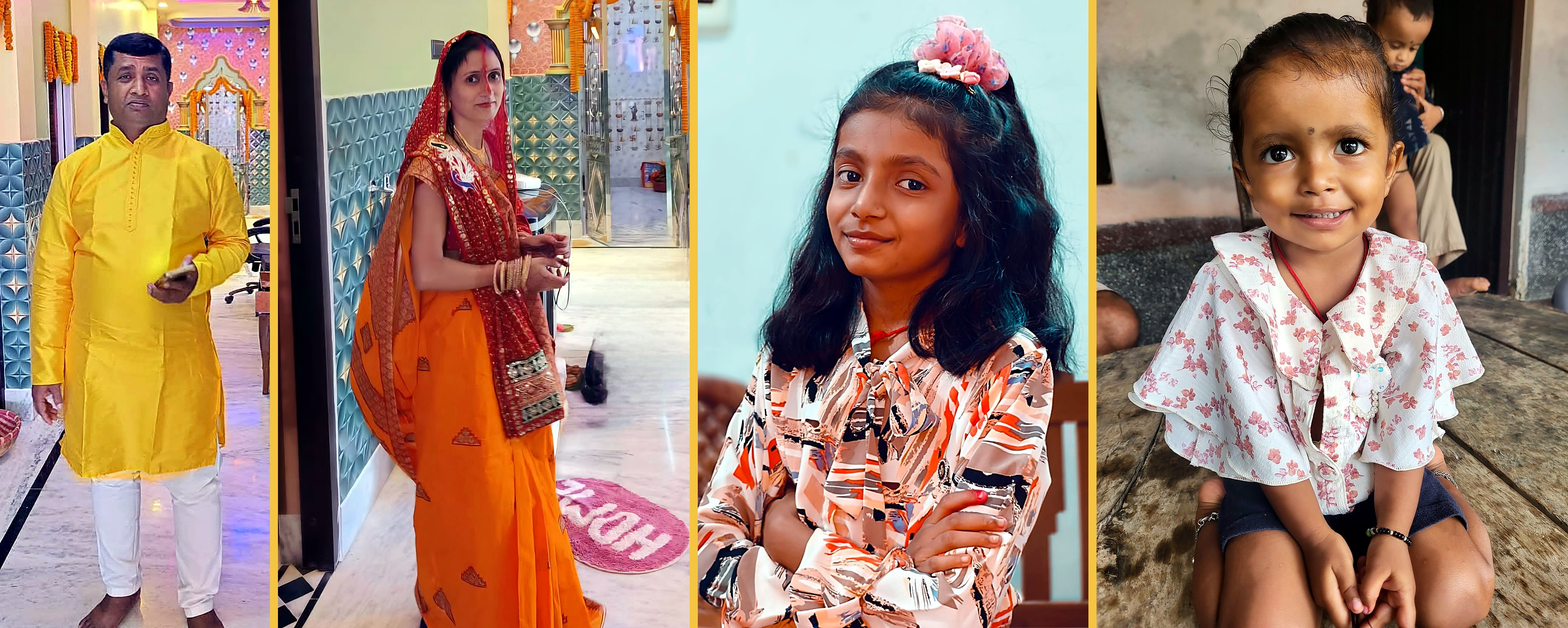
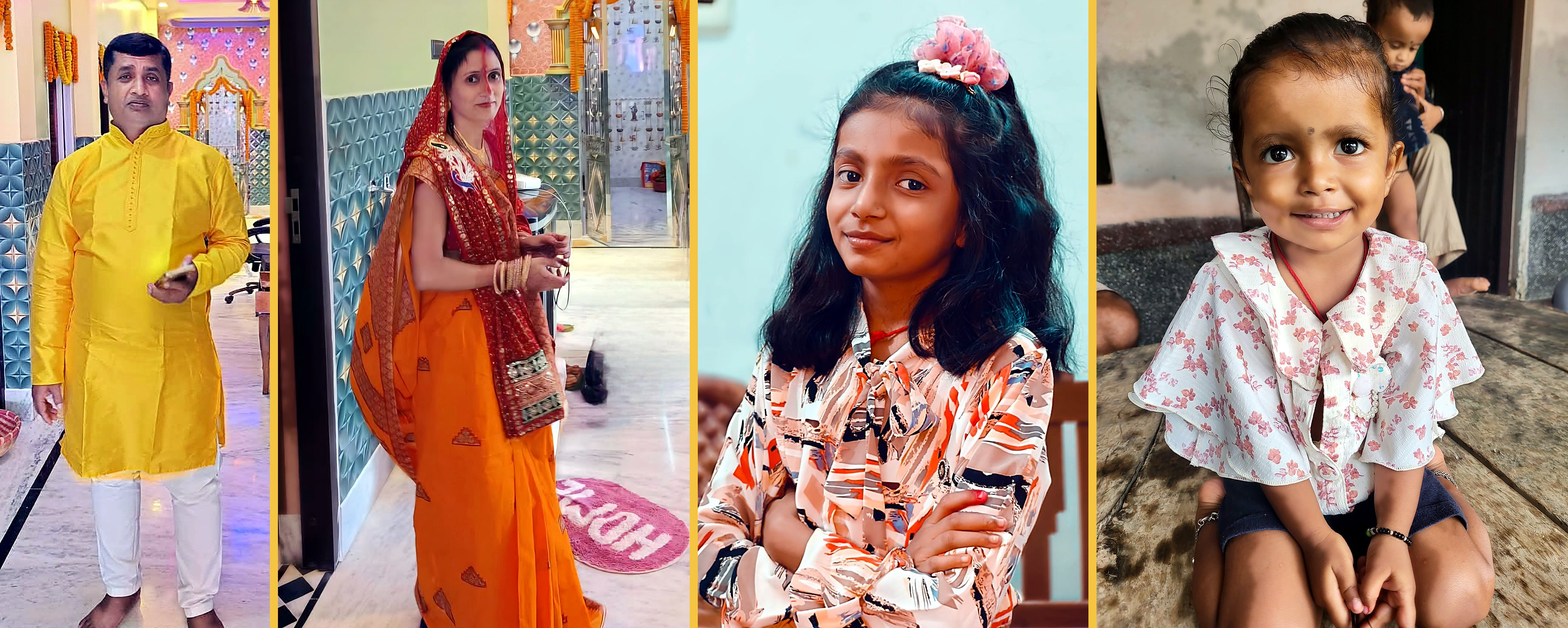
TV pages: brighter skin tones in the family strip
Claude-Session: https://claude.ai/code/session_018EugsYQCsBFzs1wRZn4dw8

diff --git a/gharwas/shivbhawan.html b/gharwas/shivbhawan.html
@@ -82,7 +82,7 @@ body{display:grid;place-items:center;font-family:"Noto Sans Devanagari","Mukta",
 
  <section class="right">
   <div class="frame par"><img src="img/parents-new.jpg?v=7" alt="Mata-Pita"><div class="cap">माता-पिता का आशीर्वाद 🙏</div></div>
-  <div class="frame fam"><img src="img/family-fair.jpg?v=9" alt="Pankaj Kumar Singh and family"><div class="cap">पंकज कुमार सिंह एवं समस्त परिवार</div></div>
+  <div class="frame fam"><img src="img/family-fair.jpg?v=10" alt="Pankaj Kumar Singh and family"><div class="cap">पंकज कुमार सिंह एवं समस्त परिवार</div></div>
  </section>
 </main>
 <div id="yt"></div>

diff --git a/gharwas/tv.html b/gharwas/tv.html
@@ -81,7 +81,7 @@ body{display:grid;place-items:center;font-family:"Noto Sans Devanagari","Mukta",
 
  <section class="right">
   <div class="frame par"><img src="img/parents-new.jpg?v=7" alt="Mata-Pita"><div class="cap">माता-पिता का आशीर्वाद 🙏</div></div>
-  <div class="frame fam"><img src="img/family-fair.jpg?v=9" alt="Pankaj Kumar Singh and family"><div class="cap">पंकज कुमार सिंह एवं समस्त परिवार</div></div>
+  <div class="frame fam"><img src="img/family-fair.jpg?v=10" alt="Pankaj Kumar Singh and family"><div class="cap">पंकज कुमार सिंह एवं समस्त परिवार</div></div>
  </section>
 </main>
 <div id="yt"></div>
